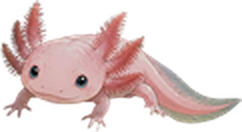
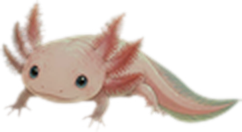
Hábitat: hábitos libres, cambiar de mascota desde el inicio y mascota integrada a su escena
- La bienvenida parte sin hábitos fijos: se crean libremente, con ideas rápidas opcionales.
- Cuarto escenario: hogar y bienestar.
- Botón Cambiar en el inicio para elegir otra mascota en cualquier momento.
- Burbujas de texto que se ajustan para no cortarse.
- Mascotas en miniatura dentro de su hogar y escenarios sin recortes.
- Recortes con borde suave, color y luz del hogar de cada mascota.

Claude-Session: https://claude.ai/code/session_01YHWJfHP7mvANvPvBohdQUY

Changed region(s): [[0.0, 0.0, 1.0, 1.0], [0.7521, 0.8485, 0.781, 0.8788], [0.7231, 0.8182, 0.7521, 0.8485]]

diff --git a/habitat/js/app.js b/habitat/js/app.js
@@ -1,5 +1,5 @@
 // Hábitat: pantallas, navegación y acciones.
-import { PETS, PET_ORDER, AREAS, LEVELS, FEELINGS, DAY_SHORT, DAY_LONG, MONTHS, PHRASES, STAGES } from './data.js';
+import { PETS, PET_ORDER, AREAS, LEVELS, FEELINGS, DAY_SHORT, DAY_LONG, MONTHS, PHRASES, STAGES, HABIT_IDEAS } from './data.js';
 import * as store from './store.js';
 import { Pet, petImg, scene, petMeta } from './pet.js';
 
@@ -116,6 +116,22 @@ function placeInHero(hero, opts) {
   pet.place({ height: P.h * (W / 390) * (opts.scale || 1), x: P.fx * sc, bottom: H - feetY });
 }
 
+// Mascotas en miniatura, cada una dentro de su propio hogar pintado.
+function petGrid(current, act) {
+  return '<div class="grid5">' + PET_ORDER.map((k) => '<button class="pet-tile' + (k === current ? ' on' : '') + '" data-act="' + act + '" data-k="' + k + '" aria-label="' + PETS[k].label + '" aria-pressed="' + (k === current) + '">' +
+    '<img class="home" src="' + scene('casa', k) + '" alt=""><img class="who" src="' + petImg(k) + '" alt=""></button>').join('') + '</div>';
+}
+function changePet(k) {
+  const s = S();
+  if (k === s.pet.k) { if (pet) pet.tap(); return; }
+  const wasDefault = s.pet.name === PETS[s.pet.k].name;
+  s.pet.k = k;
+  if (wasDefault) s.pet.name = PETS[k].name;
+  store.save();
+  render(true);
+  setTimeout(() => pet && pet.say('¡Hola! Soy ' + s.pet.name), 400);
+}
+
 // ---------- hojas inferiores
 
 function sheet(html, onOpen) {
@@ -163,7 +179,8 @@ function screenInicio() {
     '<div class="shade"></div>' + fireflies() +
     '<div class="hello"><div class="who"><div class="small bold">' + todayLabel() + ' · ' + greeting() + '</div><h1 style="font-size:24px">Hola' + (s.user.name ? ', ' + esc(s.user.name) : '') + '</h1></div>' +
     '<div class="row" style="gap:6px"><span class="pill" title="Racha">' + I.flame + streak + '</span><span class="pill" title="Comodines">' + I.star + s.wildcards + '</span></div></div>' +
-    '<div class="petbar"><span class="display" style="font-size:16px">' + esc(s.pet.name) + '</span><span class="muted small">' + st.label + ' · ' + nextTxt + '</span><span class="bar"><i style="width:' + Math.round(st.prog * 100) + '%"></i></span></div>' +
+    '<div class="petbar"><span class="display" style="font-size:16px">' + esc(s.pet.name) + '</span><span class="muted small">' + st.label + ' · ' + nextTxt + '</span><span class="bar"><i style="width:' + Math.round(st.prog * 100) + '%"></i></span>' +
+    '<button class="swap" data-act="pet-sheet" aria-label="Cambiar de mascota">' + I.paw + '<span>Cambiar</span></button></div>' +
     '</section>' +
     '<div class="pad stack" style="margin-top:14px">' +
     '<a class="btn red block" href="#/rescate" style="min-height:58px;font-size:20px">' + I.flameW + 'Estoy procrastinando</a>' +
@@ -338,10 +355,10 @@ function screenMascota() {
     '<section class="hero" data-hero style="height:250px;border-radius:26px"><img class="scene" src="' + scene('casa', s.pet.k) + '" alt="Hogar de ' + esc(s.pet.name) + '">' + fireflies() + '</section>' +
     '<div class="card stack" style="gap:8px"><div class="row between"><b>Crecimiento</b><span class="muted small">' + plural(st.days, 'día activo', 'días activos') + '</span></div><span class="bar"><i style="width:' + Math.round(st.prog * 100) + '%"></i></span><div class="muted small">' + nextTxt + ' Nunca muere: si te alejas, solo se cansa y te espera.</div>' +
     '<div class="grid4" style="text-align:center;margin-top:4px">' + STAGES.map((x) => '<div style="background:' + (x.label === st.label ? '#E3F0D8' : '#FFF6E5') + ';border-radius:12px;padding:6px 2px"><div class="small bold">' + x.label + '</div><div class="small muted">día ' + x.from + '</div></div>').join('') + '</div></div>' +
-    '<div class="grid4">' + places.map(([p, l]) => '<div class="place"><img src="' + scene(p, s.pet.k) + '" alt="' + l + ' de ' + esc(s.pet.name) + '"><div>' + l + '</div></div>').join('') + '</div>' +
+    '<div class="grid4 places">' + places.map(([p, l]) => '<div class="place"><img src="' + scene(p, s.pet.k) + '" alt="' + l + ' de ' + esc(s.pet.name) + '"><div>' + l + '</div></div>').join('') + '</div>' +
     '<label class="field">Nombre<input class="input" data-model="pet.name" maxlength="16" value="' + esc(s.pet.name) + '"></label>' +
     '<div class="bold" style="font-size:14px">Cambiar de compañero</div><div class="muted small" style="margin-top:-6px">Tu progreso se mantiene.</div>' +
-    '<div class="grid5">' + PET_ORDER.map((k) => '<button class="pet-tile' + (k === s.pet.k ? ' on' : '') + '" data-act="pick-pet" data-k="' + k + '" aria-label="' + PETS[k].label + '" aria-pressed="' + (k === s.pet.k) + '"><img src="' + petImg(k) + '" alt=""></button>').join('') + '</div>' +
+    petGrid(s.pet.k, 'pick-pet') +
     '</div></main>' + nav('mascota');
 }
 function afterMascota() {
@@ -380,7 +397,7 @@ function screenYo() {
 function screenHabito() {
   const isNew = ui.param === 'nuevo';
   if (!ui.draft || ui.draft._for !== ui.param) {
-    const base = isNew ? { id: store.uid(), area: 'estudio', title: '', time: '18:00', place: '', days: [1, 2, 3, 4, 5], min: '', normal: '', epic: '', identity: '' } : store.habitById(ui.param);
+    const base = isNew ? store.blankHabit() : store.habitById(ui.param);
     if (!base) { location.hash = '#/yo'; return ''; }
     ui.draft = JSON.parse(JSON.stringify(base));
     ui.draft._for = ui.param;
@@ -388,15 +405,21 @@ function screenHabito() {
   const d = ui.draft;
   return backdrop(AREAS[d.area].scene, true) +
     '<main class="screen no-nav"><div class="topbar"><button class="icon-btn" data-act="go-back" aria-label="Volver">' + I.back + '</button><h1 style="font-size:22px;flex:1">' + (isNew ? 'Nuevo hábito' : 'Editar hábito') + '</h1></div>' +
-    '<div class="pad stack">' + habitFields(d, 'draft') +
+    '<div class="pad stack">' + (isNew ? ideasRow('draft') : '') + habitFields(d, 'draft', S().pet.k) +
     '<button class="btn block" data-act="save-habit">Guardar</button>' +
     (isNew ? '' : '<button class="btn link" style="color:#9A3F2A" data-act="archive-habit">Quitar este hábito</button>') +
     '</div></main>';
 }
-function habitFields(d, model) {
+function ideasRow(model) {
+  return '<div class="field">Ideas rápidas<div class="row" style="gap:6px;flex-wrap:wrap">' + HABIT_IDEAS.map((x, i) =>
+    '<button class="chip" style="background:#fff;border:2px solid #E0D5BC;min-height:38px;font-size:13px" data-act="idea" data-model="' + model + '" data-i="' + i + '">' + esc(x.title) + '</button>').join('') +
+    '</div><span class="muted small" style="font-weight:600">O escribe el tuyo, el que quieras.</span></div>';
+}
+function habitFields(d, model, k) {
   const days = [1, 2, 3, 4, 5, 6, 0];
-  return '<div class="row" style="gap:8px;flex-wrap:wrap">' + Object.keys(AREAS).map((a) => '<button class="chip" style="border:2px solid ' + (d.area === a ? AREAS[a].ink : 'transparent') + ';background:' + AREAS[a].soft + ';color:' + AREAS[a].ink + ';min-height:40px;padding:6px 14px;font-size:14px" data-act="area" data-model="' + model + '" data-v="' + a + '" aria-pressed="' + (d.area === a) + '">' + AREAS[a].label + '</button>').join('') + '</div>' +
-    '<label class="field">¿Qué vas a hacer?<input class="input" data-model="' + model + '.title" value="' + esc(d.title) + '" placeholder="Ej: Estudiar anatomía"></label>' +
+  return '<label class="field">¿Qué hábito quieres crear?<input class="input" data-model="' + model + '.title" value="' + esc(d.title) + '" placeholder="Ej: Estudiar anatomía, leer, meditar…"></label>' +
+    '<div class="field" role="group" aria-label="Escenario">¿Dónde te acompaña tu mascota?<div class="grid4">' + Object.keys(AREAS).map((a) =>
+    '<button class="scene-pick' + (d.area === a ? ' on' : '') + '" data-act="area" data-model="' + model + '" data-v="' + a + '" aria-pressed="' + (d.area === a) + '"><img src="' + scene(AREAS[a].scene, k) + '" alt=""><span>' + AREAS[a].label + '</span></button>').join('') + '</div></div>' +
     '<div class="grid2"><label class="field">Hora<input class="input" type="time" data-model="' + model + '.time" value="' + esc(d.time) + '"></label><label class="field">Lugar<input class="input" data-model="' + model + '.place" value="' + esc(d.place) + '" placeholder="Ej: Biblioteca"></label></div>' +
     '<div class="field" role="group" aria-label="Días">Días<div class="row" style="gap:6px;flex-wrap:wrap">' + days.map((x) => '<button class="daychip' + (d.days.includes(x) ? ' on' : '') + '" data-act="day" data-model="' + model + '" data-v="' + x + '" aria-pressed="' + d.days.includes(x) + '" aria-label="' + DAY_LONG[x] + '">' + DAY_SHORT[x] + '</button>').join('') + '</div></div>' +
     '<div class="muted small" style="margin-bottom:-4px">Tres niveles: los días malos vale la mínima.</div>' +
@@ -409,7 +432,7 @@ function habitFields(d, model) {
 // ---------- Bienvenida
 
 function screenBienvenida() {
-  const ob = ui.ob || (ui.ob = { step: 0, name: S().user.name || '', k: 'zorro', petName: PETS.zorro.name, custom: false, habits: store.templates(), letter: '', edit: null });
+  const ob = ui.ob || (ui.ob = { step: 0, name: S().user.name || '', k: 'zorro', petName: PETS.zorro.name, custom: false, habits: [], letter: '', edit: null, isNew: false });
   let body = '';
   const next = (label = 'Seguir', dis) => '<button class="btn block" data-act="ob-next"' + (dis ? ' disabled' : '') + '>' + label + '</button>';
   if (ob.step === 0) {
@@ -426,17 +449,21 @@ function screenBienvenida() {
     body = '<h1 style="font-size:26px">Elige tu compañero</h1><div class="muted" style="line-height:1.4">Crecerá contigo. Nunca muere: si te alejas, solo se cansa y te espera.</div>' +
       '<section class="hero" data-hero style="height:230px;border-radius:26px"><img class="scene" src="' + scene('casa', ob.k) + '" alt="Hogar del ' + PETS[ob.k].label.toLowerCase() + '"></section>' +
       '<div class="card" style="font-size:14px;line-height:1.45"><b>' + PETS[ob.k].label + ':</b> ' + PETS[ob.k].desc + '</div>' +
-      '<div class="grid5">' + PET_ORDER.map((k) => '<button class="pet-tile' + (k === ob.k ? ' on' : '') + '" data-act="ob-pet" data-k="' + k + '" aria-label="' + PETS[k].label + '" aria-pressed="' + (k === ob.k) + '"><img src="' + petImg(k) + '" alt=""></button>').join('') + '</div>' +
+      petGrid(ob.k, 'ob-pet') +
       '<label class="field">¿Cómo se va a llamar?<input class="input" data-model="ob.petName" maxlength="16" value="' + esc(ob.petName) + '"></label>' + next('Este es');
   } else if (ob.step === 3) {
     if (ob.edit !== null) {
       const h = ob.habits[ob.edit];
-      body = '<div class="row"><button class="icon-btn" data-act="ob-edit-done" aria-label="Volver">' + I.back + '</button><h1 style="font-size:22px">Ajustar hábito</h1></div>' + habitFields(h, 'ob.habits.' + ob.edit) + '<button class="btn block" data-act="ob-edit-done">Listo</button>';
+      body = '<div class="row"><button class="icon-btn" data-act="ob-cancel-edit" aria-label="Volver">' + I.back + '</button><h1 style="font-size:22px">' + (ob.isNew ? 'Nuevo hábito' : 'Editar hábito') + '</h1></div>' +
+        (ob.isNew ? ideasRow('ob.habits.' + ob.edit) : '') + habitFields(h, 'ob.habits.' + ob.edit, ob.k) +
+        '<button class="btn block" data-act="ob-save-habit">Guardar hábito</button>';
     } else {
-      body = '<h1 style="font-size:26px">Tus hábitos</h1><div class="muted" style="line-height:1.4">Partimos con tus tres áreas. Ajusta la hora y el lugar a tu semana: el cuándo y el dónde son la mitad del trabajo.</div>' +
-        ob.habits.map((h, i) => { const A = AREAS[h.area]; return '<div class="card row" style="gap:12px;opacity:' + (h.on ? 1 : 0.55) + '"><img src="' + scene(A.scene, ob.k) + '" alt="" style="width:56px;height:56px;border-radius:14px;object-fit:cover;object-position:50% 60%"><div style="flex:1;min-width:0"><b>' + esc(h.title) + '</b><div class="muted small">' + h.days.slice().sort((a, b) => ((a + 6) % 7) - ((b + 6) % 7)).map((d) => DAY_SHORT[d]).join(' ') + ' · ' + esc(h.time) + ' · ' + esc(h.place) + '</div><div class="small" style="margin-top:2px">Mínimo: ' + esc(h.min) + '</div></div>' +
-          '<div class="stack" style="gap:4px"><button class="btn ghost" style="min-height:38px;font-size:13px;padding:0 10px" data-act="ob-edit" data-i="' + i + '">Ajustar</button><button class="btn link" style="min-height:32px;font-size:13px" data-act="ob-toggle" data-i="' + i + '">' + (h.on ? 'Quitar' : 'Usar') + '</button></div></div>'; }).join('') +
-        next('Seguir', !ob.habits.some((h) => h.on));
+      body = '<h1 style="font-size:26px">Tus hábitos</h1><div class="muted" style="line-height:1.4">Crea los hábitos que tú quieras desarrollar. Ponles hora y lugar: el cuándo y el dónde son la mitad del trabajo.</div>' +
+        ob.habits.map((h, i) => { const A = AREAS[h.area]; return '<div class="card row" style="gap:12px"><img src="' + scene(A.scene, ob.k) + '" alt="" style="width:56px;height:56px;border-radius:14px;object-fit:cover;object-position:50% 60%"><div style="flex:1;min-width:0"><b>' + esc(h.title) + '</b><div class="muted small">' + h.days.slice().sort((a, b) => ((a + 6) % 7) - ((b + 6) % 7)).map((d) => DAY_SHORT[d]).join(' ') + ' · ' + esc(h.time) + (h.place ? ' · ' + esc(h.place) : '') + '</div></div>' +
+          '<div class="stack" style="gap:4px"><button class="btn ghost" style="min-height:38px;font-size:13px;padding:0 10px" data-act="ob-edit" data-i="' + i + '">Editar</button><button class="btn link" style="min-height:32px;font-size:13px" data-act="ob-remove" data-i="' + i + '">Quitar</button></div></div>'; }).join('') +
+        (ob.habits.length ? '' : '<div class="card muted" style="line-height:1.45">Todavía no tienes hábitos. Empieza con uno o dos: es mejor partir chico.</div>') +
+        '<button class="btn ghost block" data-act="ob-new">+ Crear un hábito</button>' +
+        next('Seguir', !ob.habits.length);
     }
   } else if (ob.step === 4) {
     body = '<h1 style="font-size:26px">Carta a tu yo del futuro</h1><div class="muted" style="line-height:1.4">Te la mostraré antes de tus tareas y cuando uses el rescate. Escribe por qué quieres cambiar y en quién te quieres convertir.</div>' +
@@ -608,15 +635,16 @@ const ACT = {
     if (el.dataset.v === 'ajustar') { location.hash = '#/habito/' + ex.habitId; return; }
     render(true);
   },
-  'pick-pet'(el) {
-    const s = S(), k = el.dataset.k;
-    if (k === s.pet.k) { if (pet) pet.tap(); return; }
-    const wasDefault = s.pet.name === PETS[s.pet.k].name;
-    s.pet.k = k;
-    if (wasDefault) s.pet.name = PETS[k].name;
-    store.save();
-    render(true);
-    setTimeout(() => pet && pet.say('¡Hola! Soy ' + s.pet.name), 400);
+  'pick-pet'(el) { changePet(el.dataset.k); },
+  'pet-sheet'() {
+    sheet('<h2 style="font-size:21px">Cambiar de compañero</h2><div class="muted" style="margin:4px 0 14px">Puedes cambiarlo cuando quieras. Tu progreso se mantiene.</div>' + petGrid(S().pet.k, 'sheet-pet'), (w) => {
+      w.addEventListener('click', (e) => {
+        const b = e.target.closest('[data-act="sheet-pet"]');
+        if (!b) return;
+        closeSheet();
+        changePet(b.dataset.k);
+      });
+    });
   },
   'save-letter'() {
     const t = app.querySelector('#carta').value.trim();
@@ -651,11 +679,7 @@ const ACT = {
     const d = ui.draft;
     if (!d.title.trim()) { toast('Ponle un nombre al hábito'); return; }
     if (!d.days.length) { toast('Elige al menos un día'); return; }
-    if (!d.min.trim()) d.min = 'Empezar 2 minutos';
-    if (!d.normal.trim()) d.normal = d.title;
-    if (!d.epic.trim()) d.epic = d.normal + ' y un poco más';
-    if (!d.identity.trim()) d.identity = 'Soy alguien que cumple: ' + d.title.toLowerCase();
-    const clean = Object.assign({}, d); delete clean._for;
+    const clean = store.finishHabit(d);
     const i = S().habits.findIndex((h) => h.id === clean.id);
     if (i >= 0) S().habits[i] = clean; else S().habits.push(clean);
     store.save(); ui.draft = null;
@@ -684,14 +708,32 @@ const ACT = {
     render(true);
     setTimeout(() => pet && pet.say('¡Hola! Soy ' + ob.petName), 400);
   },
-  'ob-edit'(el) { ui.ob.edit = Number(el.dataset.i); render(); window.scrollTo(0, 0); },
-  'ob-edit-done'() { ui.ob.edit = null; render(); },
-  'ob-toggle'(el) { const h = ui.ob.habits[Number(el.dataset.i)]; h.on = !h.on; render(true); },
+  'ob-edit'(el) { const ob = ui.ob; ob.edit = Number(el.dataset.i); ob.isNew = false; ob.backup = JSON.stringify(ob.habits[ob.edit]); render(); window.scrollTo(0, 0); },
+  'ob-new'() { const ob = ui.ob; ob.habits.push(store.blankHabit()); ob.edit = ob.habits.length - 1; ob.isNew = true; render(); window.scrollTo(0, 0); },
+  'ob-cancel-edit'() {
+    const ob = ui.ob;
+    if (ob.isNew) ob.habits.splice(ob.edit, 1);
+    else if (ob.backup) ob.habits[ob.edit] = JSON.parse(ob.backup);
+    ob.edit = null; render();
+  },
+  'ob-save-habit'() {
+    const ob = ui.ob, h = ob.habits[ob.edit];
+    if (!h.title.trim()) { toast('Escribe qué hábito quieres crear'); return; }
+    if (!h.days.length) { toast('Elige al menos un día'); return; }
+    ob.habits[ob.edit] = store.finishHabit(h);
+    ob.edit = null; render(); window.scrollTo(0, 0);
+  },
+  'ob-remove'(el) { ui.ob.habits.splice(Number(el.dataset.i), 1); render(true); },
+  idea(el) {
+    const d = getPath(el.dataset.model), x = HABIT_IDEAS[Number(el.dataset.i)];
+    Object.assign(d, { area: x.area, title: x.title, min: x.min, normal: x.normal, epic: x.epic, identity: x.identity });
+    render(true);
+  },
   'ob-finish'() {
     const ob = ui.ob, s = S();
     s.user.name = ob.name.trim();
     s.pet = { k: ob.k, name: (ob.petName || PETS[ob.k].name).trim(), since: store.dayKey() };
-    s.habits = ob.habits.filter((h) => h.on).map((h) => { const c = Object.assign({}, h); delete c.on; return c; });
+    s.habits = ob.habits.map((h) => store.finishHabit(h));
     if (ob.letter.trim()) s.letter = { text: ob.letter.trim(), at: new Date().toISOString() };
     s.onboarded = true;
     s.settledUntil = store.dayKey(); s.lastOpen = store.dayKey();

diff --git a/habitat/js/data.js b/habitat/js/data.js
@@ -18,8 +18,9 @@ export const PET_ORDER = ['zorro', 'gato', 'perro', 'ballena', 'axolote', 'dinos
 
 export const AREAS = {
   estudio: { label: 'Estudio', scene: 'estudio', color: '#5B9BD0', soft: '#DCEBF6', ink: '#2C5E86' },
-  entreno: { label: 'Entrenamiento', scene: 'entreno', color: '#7FB069', soft: '#E3F0D8', ink: '#2F6B4F' },
-  proyectos: { label: 'Proyectos', scene: 'proyectos', color: '#F6C453', soft: '#FBEBC4', ink: '#7A5A0E' }
+  entreno: { label: 'Ejercicio', scene: 'entreno', color: '#7FB069', soft: '#E3F0D8', ink: '#2F6B4F' },
+  proyectos: { label: 'Proyectos', scene: 'proyectos', color: '#F6C453', soft: '#FBEBC4', ink: '#7A5A0E' },
+  hogar: { label: 'Hogar y bienestar', scene: 'casa', color: '#C9A0DC', soft: '#F1E6F7', ink: '#6B3F86' }
 };
 
 export const LEVELS = {
@@ -48,11 +49,16 @@ export const DAY_SHORT = ['D', 'L', 'M', 'M', 'J', 'V', 'S'];
 export const DAY_LONG = ['domingo', 'lunes', 'martes', 'miércoles', 'jueves', 'viernes', 'sábado'];
 export const MONTHS = ['enero', 'febrero', 'marzo', 'abril', 'mayo', 'junio', 'julio', 'agosto', 'septiembre', 'octubre', 'noviembre', 'diciembre'];
 
-// Hábitos de ejemplo para la bienvenida (se pueden editar o apagar).
-export const HABIT_TEMPLATES = [
-  { area: 'estudio', title: 'Estudiar', time: '17:00', place: 'Biblioteca', days: [1, 2, 3, 4, 5], min: 'Responder 5 preguntas', normal: 'Estudiar 25 minutos', epic: 'Estudiar 1 hora', identity: 'Soy alguien que estudia cada día' },
-  { area: 'entreno', title: 'Entrenar', time: '18:30', place: 'Gimnasio', days: [1, 3, 5], min: 'Calentar 10 minutos', normal: 'Hacer la rutina', epic: 'Rutina completa + extra', identity: 'Soy alguien que entrena' },
-  { area: 'proyectos', title: 'Avanzar mi proyecto', time: '22:00', place: 'Casa', days: [0, 1, 2, 3, 4, 6], min: 'Abrir el proyecto 5 minutos', normal: 'Trabajar 15 minutos', epic: 'Trabajar 45 minutos', identity: 'Soy alguien que termina sus proyectos' }
+// Ideas para crear un hábito rápido (el usuario siempre puede escribir el suyo).
+export const HABIT_IDEAS = [
+  { area: 'estudio', title: 'Estudiar', min: 'Responder 5 preguntas', normal: 'Estudiar 25 minutos', epic: 'Estudiar 1 hora', identity: 'Soy alguien que estudia cada día' },
+  { area: 'entreno', title: 'Entrenar', min: 'Calentar 10 minutos', normal: 'Hacer la rutina', epic: 'Rutina completa + extra', identity: 'Soy alguien que entrena' },
+  { area: 'proyectos', title: 'Avanzar mi proyecto', min: 'Abrirlo 5 minutos', normal: 'Trabajar 15 minutos', epic: 'Trabajar 45 minutos', identity: 'Soy alguien que termina sus proyectos' },
+  { area: 'estudio', title: 'Leer', min: 'Leer 1 página', normal: 'Leer 15 minutos', epic: 'Leer un capítulo', identity: 'Soy alguien que lee' },
+  { area: 'hogar', title: 'Meditar', min: '3 respiraciones profundas', normal: 'Meditar 5 minutos', epic: 'Meditar 15 minutos', identity: 'Soy alguien que cuida su mente' },
+  { area: 'hogar', title: 'Ordenar mi pieza', min: 'Guardar 3 cosas', normal: 'Ordenar 10 minutos', epic: 'Ordenar todo', identity: 'Soy alguien ordenado con su espacio' },
+  { area: 'entreno', title: 'Caminar', min: 'Caminar 5 minutos', normal: 'Caminar 20 minutos', epic: 'Caminar 45 minutos', identity: 'Soy alguien que se mueve' },
+  { area: 'hogar', title: 'Dormir temprano', min: 'Celular lejos 15 min antes', normal: 'Acostarme a la hora', epic: 'Acostarme 30 min antes', identity: 'Soy alguien que descansa bien' }
 ];
 
 export const PHRASES = {

diff --git a/habitat/css/app.css b/habitat/css/app.css
@@ -161,3 +161,25 @@ textarea.input { resize: vertical; line-height: 1.5; font-weight: 600; }
   *, *::before, *::after { animation-duration: .01ms !important; animation-iteration-count: 1 !important; transition-duration: .01ms !important; }
 }
 @keyframes kb { 0% { transform: scale(1.04) translate(0,0) } 100% { transform: scale(1.16) translate(-12px,-8px) } }
+
+/* ---------- v1.1 */
+.pet-tile { position: relative; overflow: hidden; padding: 0; height: auto; aspect-ratio: 1; }
+.pet-tile img.home { position: absolute; inset: 0; width: 100%; height: 100%; object-fit: cover; object-position: 50% 62%; filter: saturate(1.1); }
+.pet-tile img.who { position: absolute; left: 50%; bottom: 10%; transform: translateX(-50%); max-height: 70%; max-width: 86%; filter: drop-shadow(0 3px 2px rgba(20,40,30,.35)); }
+.pet-tile::after { content: ''; position: absolute; inset: 0; border-radius: inherit; box-shadow: inset 0 -18px 20px -14px rgba(20,40,30,.35); pointer-events: none; }
+.pet-tile.on { border: 3px solid var(--bosque); box-shadow: 0 0 0 3px rgba(127,176,105,.45); }
+.places .place img { height: auto; aspect-ratio: 3 / 4; object-position: 50% 55%; }
+.scene-pick { position: relative; padding: 0; border: 3px solid transparent; border-radius: 16px; overflow: hidden; background: #fff; aspect-ratio: 3 / 4; }
+.scene-pick img { position: absolute; inset: 0; width: 100%; height: 100%; object-fit: cover; object-position: 50% 58%; }
+.scene-pick span { position: absolute; left: 0; right: 0; bottom: 0; padding: 14px 4px 6px; font-size: 11px; font-weight: 800; color: #fff; text-align: center; line-height: 1.15; background: linear-gradient(180deg, rgba(20,40,30,0), rgba(20,40,30,.75)); }
+.scene-pick.on { border-color: var(--bosque); box-shadow: 0 0 0 3px rgba(127,176,105,.45); }
+.swap { display: inline-flex; align-items: center; gap: 4px; border: none; background: #E3F0D8; color: var(--bosque); border-radius: 12px; padding: 6px 10px; font-size: 12px; font-weight: 800; flex-shrink: 0; min-height: 36px; }
+.swap svg { width: 16px; height: 16px; stroke: currentColor; }
+.pet-bubble { white-space: normal; text-align: center; width: max-content; max-width: min(230px, 70vw); line-height: 1.3; transform: translate(calc(-50% + var(--dx, 0px)), calc(-100% + var(--dy, 0px))); }
+.pet-bubble::after { left: calc(50% - var(--dx, 0px)); }
+@keyframes pop { 0% { transform: translate(calc(-50% + var(--dx, 0px)), calc(-100% + var(--dy, 0px))) scale(.3); opacity: 0 } 70% { transform: translate(calc(-50% + var(--dx, 0px)), calc(-100% + var(--dy, 0px))) scale(1.08); opacity: 1 } 100% { transform: translate(calc(-50% + var(--dx, 0px)), calc(-100% + var(--dy, 0px))) scale(1) } }
+/* Luz compartida por la escena y la mascota: las une en una sola pintura */
+.hero::after { content: ''; position: absolute; inset: 0; z-index: 3; pointer-events: none;
+  background: radial-gradient(120% 70% at 80% 0%, rgba(255,230,170,.28), rgba(255,230,170,0) 60%), radial-gradient(140% 90% at 50% 55%, rgba(0,0,0,0) 55%, rgba(20,35,25,.28) 100%);
+  mix-blend-mode: soft-light; }
+.hero .petbar, .hero .hello { z-index: 5; }

diff --git a/habitat/js/store.js b/habitat/js/store.js
@@ -1,6 +1,6 @@
 // Estado de la app guardado en el teléfono (localStorage), con cálculos de
 // rachas, comodines, crecimiento de la mascota y patrones.
-import { PETS, STAGES, HABIT_TEMPLATES } from './data.js';
+import { PETS, STAGES } from './data.js';
 
 const KEY = 'habitat.v1';
 const START_WILDCARDS = 3;
@@ -68,8 +68,20 @@ export function replaceAll(data) {
   save();
 }
 
-export function templates() {
-  return HABIT_TEMPLATES.map((t) => Object.assign({ id: uid(), on: true }, t, { days: t.days.slice() }));
+export function blankHabit(idea) {
+  return Object.assign({ id: uid(), area: 'estudio', title: '', time: '18:00', place: '', days: [1, 2, 3, 4, 5], min: '', normal: '', epic: '', identity: '' }, idea || {});
+}
+
+// Completa lo que el usuario dejó en blanco al crear un hábito.
+export function finishHabit(d) {
+  const h = Object.assign({}, d);
+  delete h._for; delete h.on;
+  h.title = h.title.trim();
+  if (!h.min.trim()) h.min = 'Empezar 2 minutos';
+  if (!h.normal.trim()) h.normal = h.title;
+  if (!h.epic.trim()) h.epic = h.normal + ' y un poco más';
+  if (!h.identity.trim()) h.identity = 'Soy alguien que cumple: ' + h.title.toLowerCase();
+  return h;
 }
 
 // ---------- hábitos y registro

diff --git a/habitat/js/pet.js b/habitat/js/pet.js
@@ -93,9 +93,25 @@ export class Pet {
 
   say(text, ms = 2600) {
     clearTimeout(this.bt);
+    const bs = this.bubble.style;
     this.bubble.textContent = text;
     this.bubble.hidden = false;
     this.bubble.classList.remove('pop');
+    bs.setProperty('--dx', '0px');
+    bs.setProperty('--dy', '0px');
+    // Que la burbuja quede completa dentro de la escena (no cortada por los bordes).
+    const scope = this.el.closest('.hero');
+    const box = scope ? scope.getBoundingClientRect() : { left: 0, right: window.innerWidth, top: 0 };
+    const r = this.bubble.getBoundingClientRect();
+    if (box) {
+      const left = Math.max(box.left, 0) + 8, right = Math.min(box.right, window.innerWidth) - 8;
+      let dx = 0;
+      if (r.left < left) dx = left - r.left;
+      else if (r.right > right) dx = right - r.right;
+      const top = Math.max(box.top, 0) + 6;
+      bs.setProperty('--dx', Math.round(dx) + 'px');
+      bs.setProperty('--dy', r.top < top ? Math.round(top - r.top) + 'px' : '0px');
+    }
     void this.bubble.offsetWidth;
     this.bubble.classList.add('pop');
     this.bt = setTimeout(() => { this.bubble.hidden = true; }, ms);

diff --git a/habitat/sw.js b/habitat/sw.js
@@ -1,5 +1,5 @@
 // Service worker de Hábitat: guarda la app para que abra sin internet.
-const VERSION = 'habitat-v1';
+const VERSION = 'habitat-v2';
 const CORE = [
   './',
   'index.html',

diff --git a/habitat/tools/grade_pets.py b/habitat/tools/grade_pets.py
@@ -1,0 +1,69 @@
+"""Integra cada mascota con la luz y el color de su hogar pintado.
+
+Toma el recorte original (tools/pets_src/<mascota>.png) y:
+- suaviza el borde del recorte (sin el halo de "foto pegada");
+- tiñe levemente la mascota con el color ambiente del lugar donde pisa;
+- ajusta su brillo al de la escena y le agrega una luz de borde cálida.
+Guarda el resultado en img/pets/<mascota>.png. Después correr make_lottie.py.
+"""
+import os
+import sys
+
+import numpy as np
+from PIL import Image, ImageFilter
+
+ROOT = os.path.dirname(os.path.dirname(os.path.abspath(__file__)))
+sys.path.insert(0, ROOT)
+
+# Mismos puntos que PETS en js/data.js (en píxeles de la imagen de 338 de ancho)
+FEET = {
+    'zorro': (120, 400), 'gato': (180, 330), 'perro': (150, 470), 'ballena': (170, 260), 'axolote': (115, 430),
+    'dinosaurio': (175, 480), 'panda': (180, 390), 'capibara': (165, 420), 'buho': (200, 400), 'conejo': (110, 430),
+}
+
+
+def ambient(scene, fx, fy):
+    a = np.asarray(scene.convert('RGB'), dtype=np.float32) / 255
+    sc = scene.width / 338
+    x, y = int(fx * sc), int(fy * sc)
+    r = int(110 * sc)
+    patch = a[max(0, y - 2 * r):min(a.shape[0], y + r // 2), max(0, x - r):min(a.shape[1], x + r)]
+    return patch.reshape(-1, 3).mean(0)
+
+
+def grade(name):
+    pet = Image.open(os.path.join(ROOT, 'tools', 'pets_src', name + '.png')).convert('RGBA')
+    scene = Image.open(os.path.join(ROOT, 'img', 'fondos', 'casa_' + name + '.jpg'))
+    amb = ambient(scene, *FEET[name])
+    p = np.asarray(pet, dtype=np.float32) / 255
+    rgb, al = p[..., :3], p[..., 3]
+
+    # borde: erosiona 1 px y difumina, para quitar el halo blanco del recorte
+    am = Image.fromarray((al * 255).astype(np.uint8)).filter(ImageFilter.MinFilter(3)).filter(ImageFilter.GaussianBlur(0.9))
+    al2 = np.asarray(am, dtype=np.float32) / 255
+
+    # color: mezcla suave hacia el tinte ambiente (multiplicar) y brillo hacia la escena
+    tint = amb / max(amb.mean(), 1e-3)
+    tint = 1 + (tint - 1) * 0.35
+    lum_s = float(amb @ [0.299, 0.587, 0.114])
+    mask = al > 0.5
+    lum_p = float((rgb[mask] @ [0.299, 0.587, 0.114]).mean()) if mask.any() else 0.5
+    gain = 1 + (min(max(lum_s / max(lum_p, 1e-3), 0.75), 1.15) - 1) * 0.4
+    out = np.clip(rgb * tint * gain, 0, 1)
+
+    # luz de borde: los bordes superiores toman el color de la luz del cielo
+    edge = np.clip(al - np.asarray(am.filter(ImageFilter.MinFilter(7)), dtype=np.float32) / 255, 0, 1)
+    h = al.shape[0]
+    top = np.linspace(1, 0.2, h)[:, None]
+    light = np.clip(amb * 1.4 + 0.15, 0, 1)
+    out = out * (1 - edge[..., None] * top[..., None] * 0.35) + light * edge[..., None] * top[..., None] * 0.35
+
+    res = np.dstack([out, al2])
+    Image.fromarray((res * 255).astype(np.uint8), 'RGBA').save(os.path.join(ROOT, 'img', 'pets', name + '.png'), optimize=True)
+    return amb
+
+
+if __name__ == '__main__':
+    for n in FEET:
+        a = grade(n)
+        print(n, [round(float(x), 2) for x in a])
